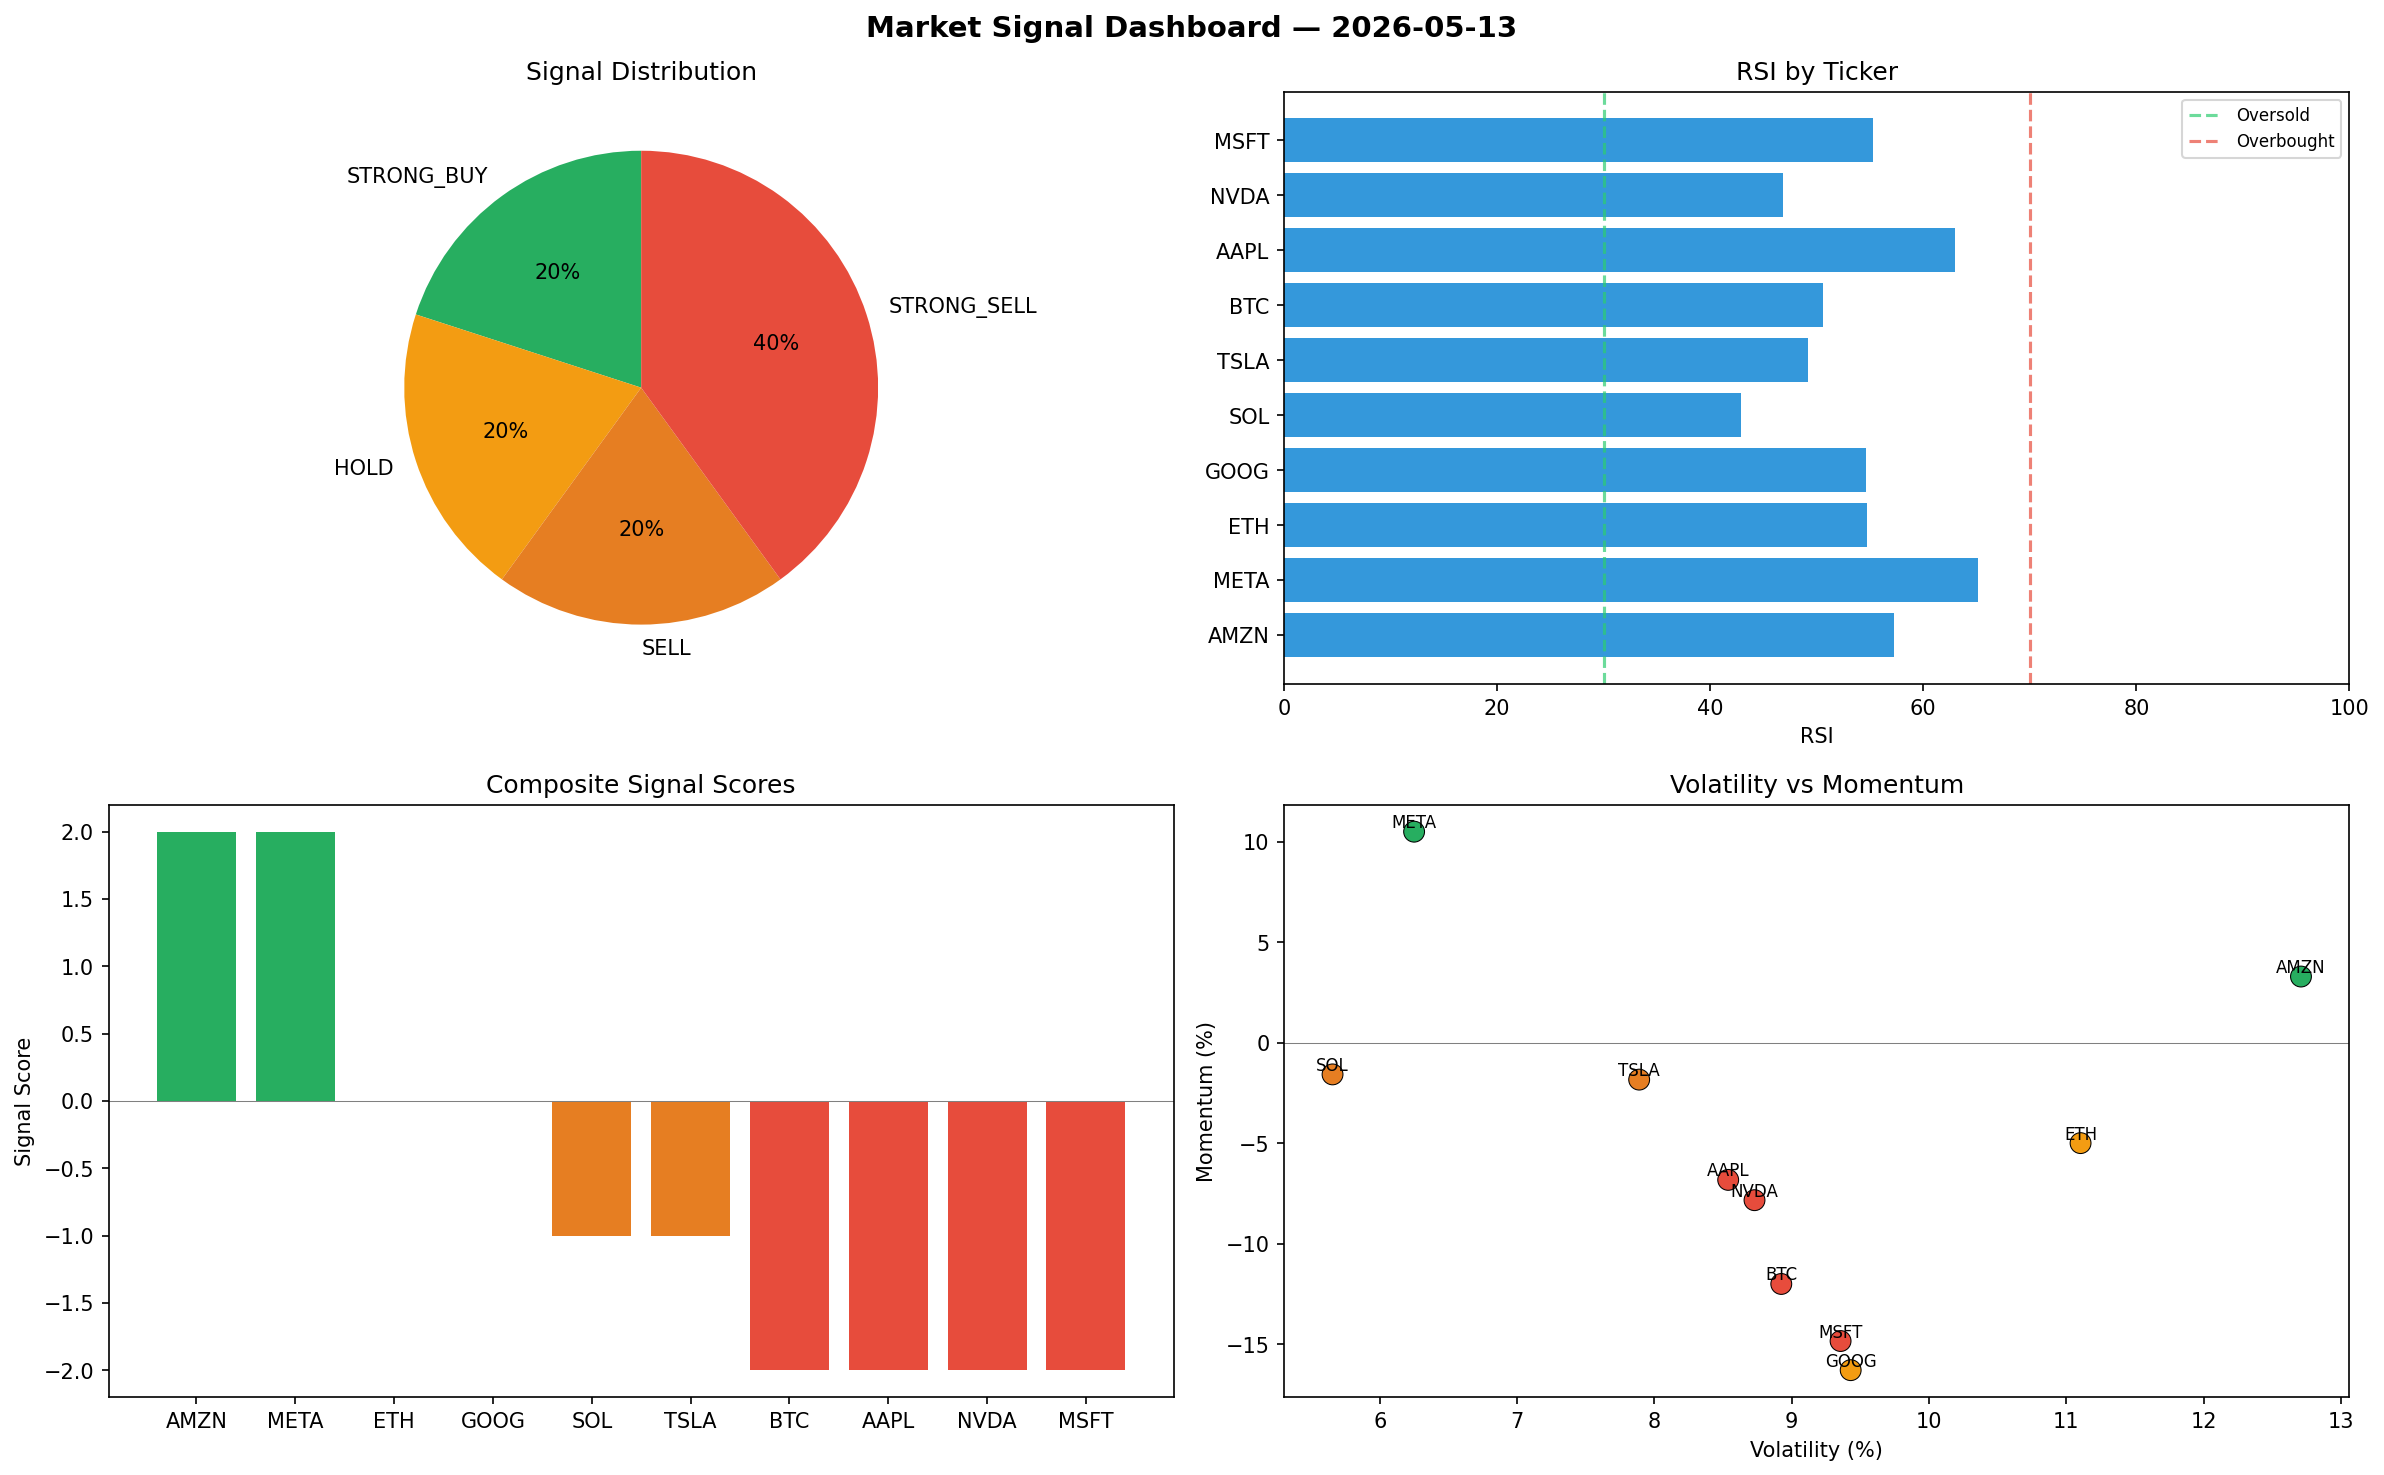
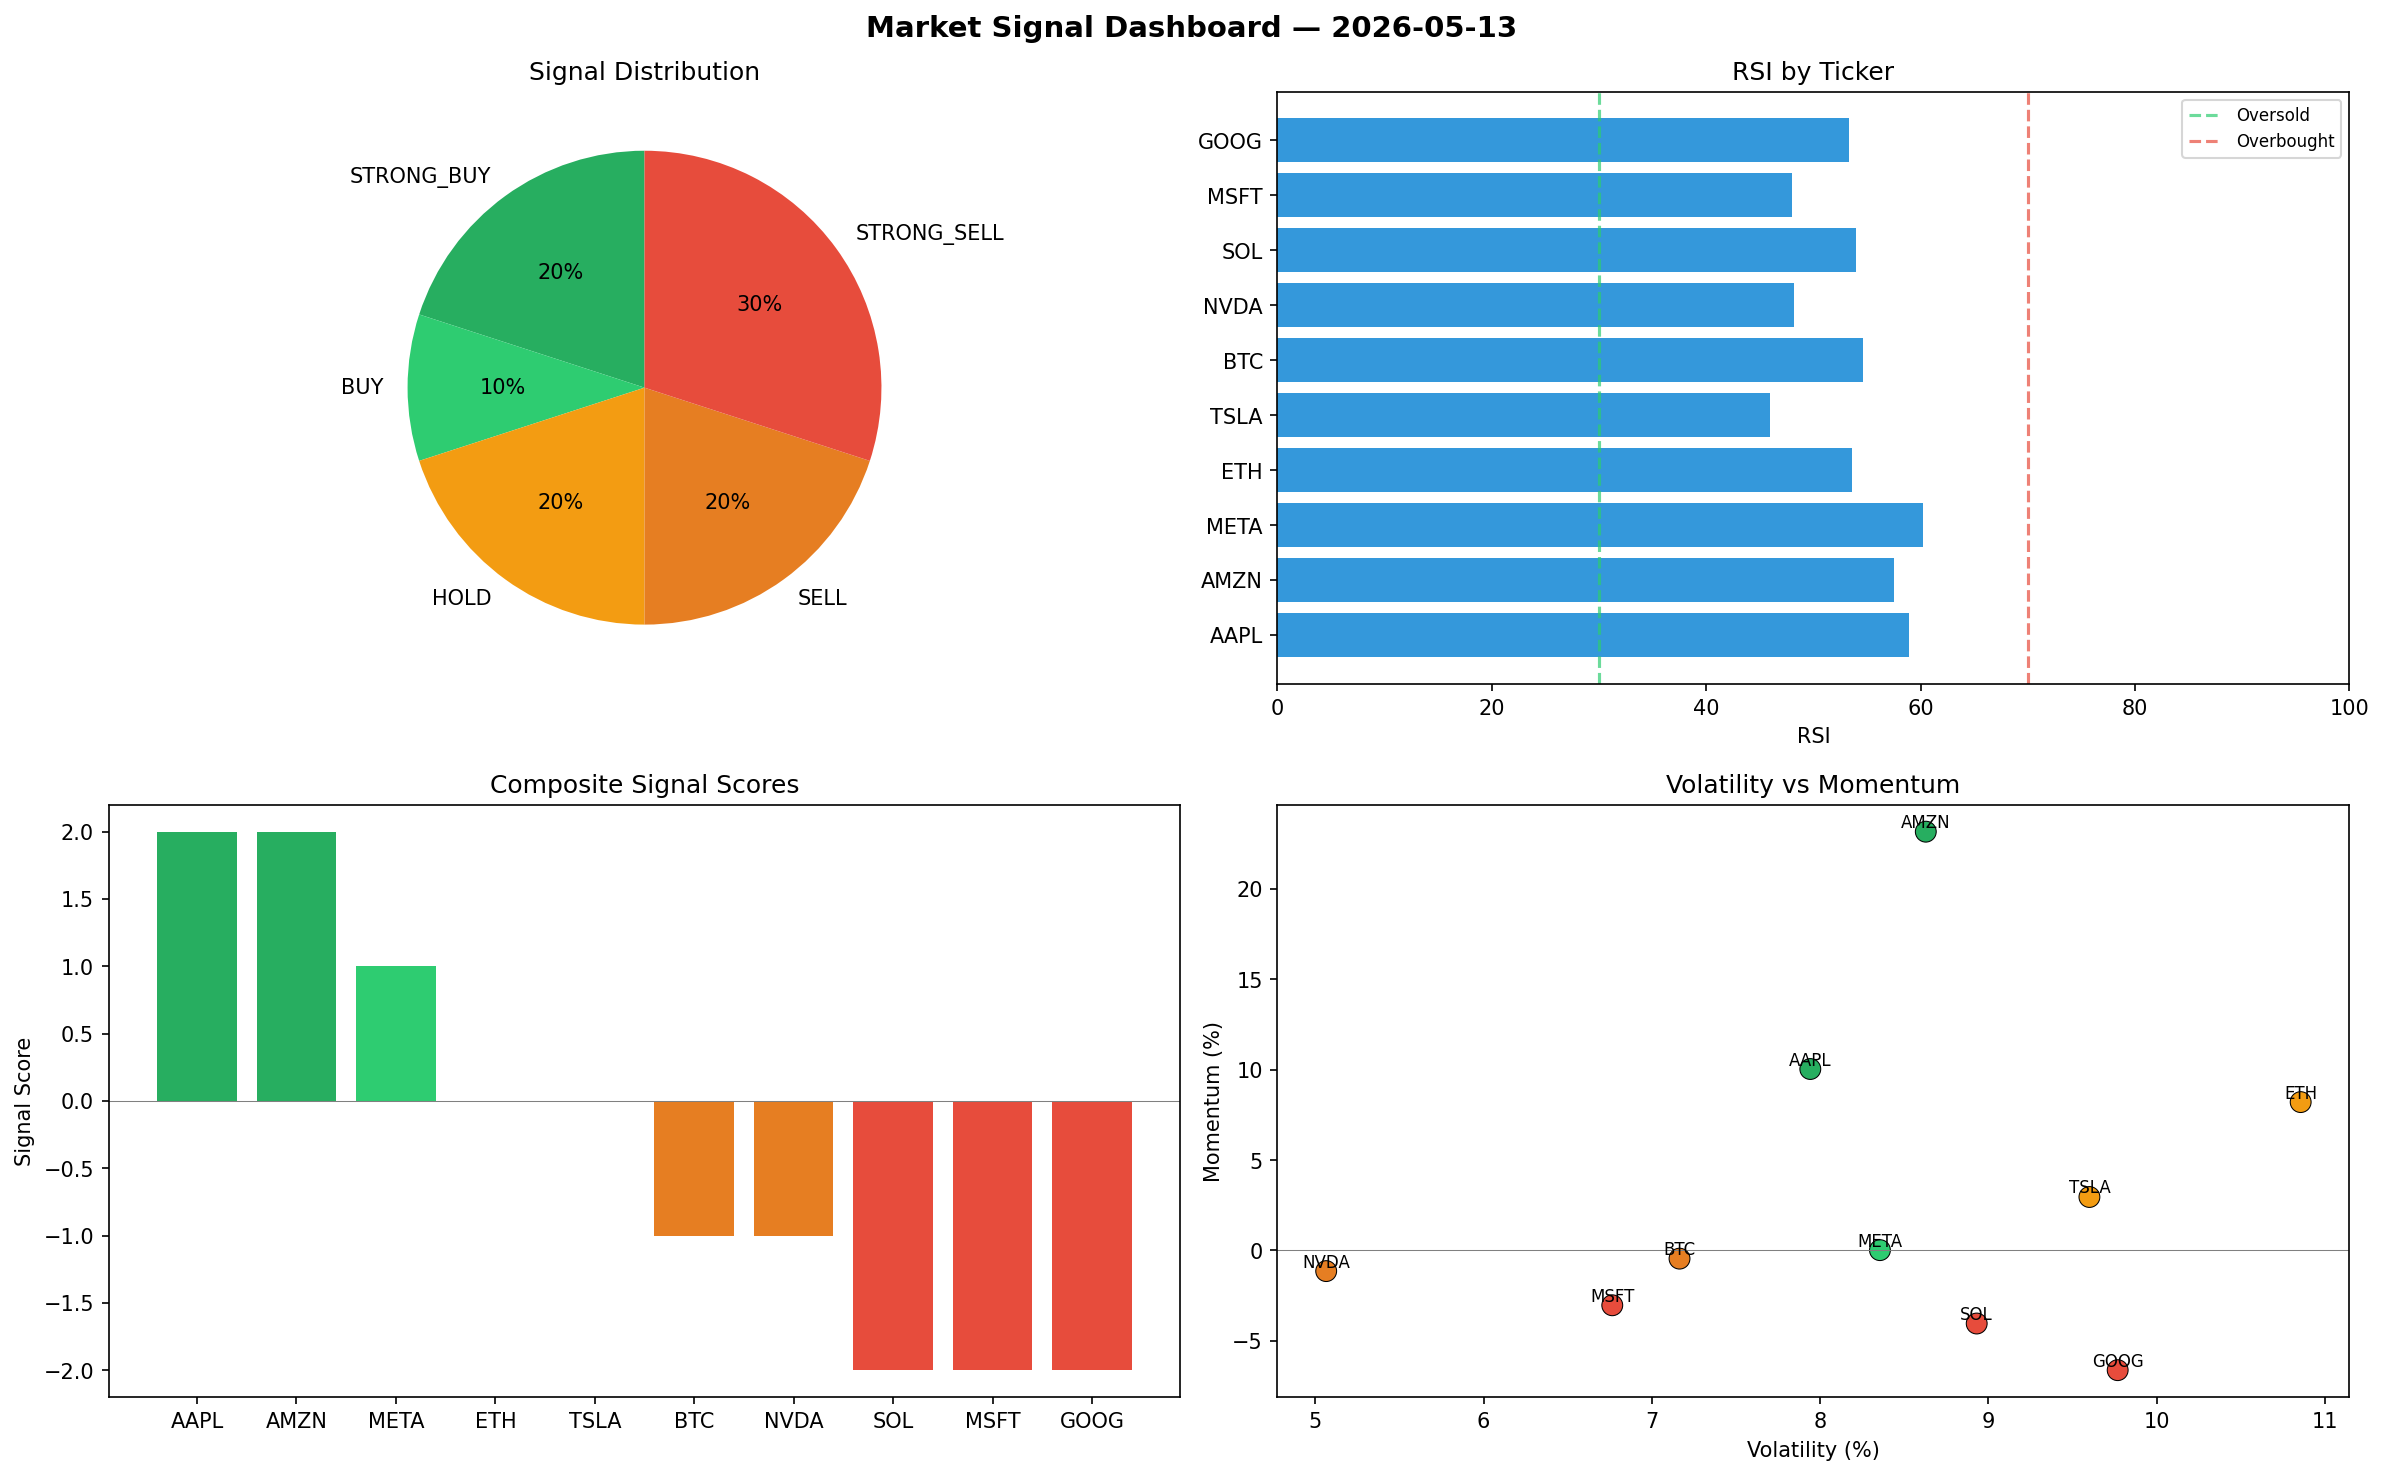
automated-bots: market signals 2026-05-13T11:03

diff --git a/logs/2026-05-13.md b/logs/2026-05-13.md
@@ -1,6 +1,6 @@
 # Market Signal Report — 2026-05-13
 
-**Run ID:** `304f258e89` | **Buy:** 2 | **Sell:** 6 | **Hold:** 2
+**Run ID:** `d3b34e11c4` | **Buy:** 3 | **Sell:** 5 | **Hold:** 2
 
 ![Dashboard](2026-05-13_dashboard.png)
 
@@ -8,28 +8,28 @@
 
 | Ticker | Price | Signal | Score | RSI | Momentum | Confidence |
 |--------|-------|--------|-------|-----|----------|------------|
-| AMZN | $3185.38 | **STRONG_BUY** | 2 | 57.26 | 0.033 | 0.5 |
-| META | $1786.54 | **STRONG_BUY** | 2 | 65.12 | 0.1051 | 0.5 |
-| ETH | $2337.55 | **HOLD** | 0 | 54.68 | -0.0499 | 0.0 |
-| GOOG | $347.57 | **HOLD** | 0 | 54.58 | -0.1629 | 0.0 |
-| SOL | $1341.54 | **SELL** | -1 | 42.86 | -0.0157 | 0.25 |
-| TSLA | $3585.32 | **SELL** | -1 | 49.19 | -0.0183 | 0.25 |
-| BTC | $2037.74 | **STRONG_SELL** | -2 | 50.6 | -0.12 | 0.5 |
-| AAPL | $1042.52 | **STRONG_SELL** | -2 | 63.01 | -0.0682 | 0.5 |
-| NVDA | $3230.78 | **STRONG_SELL** | -2 | 46.86 | -0.0783 | 0.5 |
-| MSFT | $2727.76 | **STRONG_SELL** | -2 | 55.27 | -0.1484 | 0.5 |
+| AAPL | $1733.51 | **STRONG_BUY** | 2 | 58.93 | 0.1004 | 0.5 |
+| AMZN | $3645.87 | **STRONG_BUY** | 2 | 57.52 | 0.2317 | 0.5 |
+| META | $4276.86 | **BUY** | 1 | 60.25 | 0.0002 | 0.25 |
+| ETH | $1096.27 | **HOLD** | 0 | 53.63 | 0.0821 | 0.0 |
+| TSLA | $652.42 | **HOLD** | 0 | 45.94 | 0.0296 | 0.0 |
+| BTC | $3459.41 | **SELL** | -1 | 54.59 | -0.0045 | 0.25 |
+| NVDA | $3005.61 | **SELL** | -1 | 48.18 | -0.0114 | 0.25 |
+| SOL | $3804.04 | **STRONG_SELL** | -2 | 53.96 | -0.0404 | 0.5 |
+| MSFT | $385.42 | **STRONG_SELL** | -2 | 47.99 | -0.0303 | 0.5 |
+| GOOG | $84.67 | **STRONG_SELL** | -2 | 53.36 | -0.0662 | 0.5 |
 
 ## Delta vs Yesterday
 
 | Ticker | Today | Yesterday | Price Change | Signal Changed |
 |--------|-------|-----------|-------------|----------------|
-| AMZN | STRONG_BUY | HOLD | 📈 75.93% | ⚠ YES |
-| META | STRONG_BUY | STRONG_BUY | 📈 118.09% | — |
-| ETH | HOLD | HOLD | 📈 584.6% | — |
-| GOOG | HOLD | STRONG_SELL | 📉 -83.26% | ⚠ YES |
-| SOL | SELL | SELL | 📈 24.82% | — |
-| TSLA | SELL | HOLD | 📉 -25.56% | ⚠ YES |
-| BTC | STRONG_SELL | HOLD | 📈 99.51% | ⚠ YES |
-| AAPL | STRONG_SELL | BUY | 📉 -69.05% | ⚠ YES |
-| NVDA | STRONG_SELL | STRONG_SELL | 📉 -12.73% | — |
-| MSFT | STRONG_SELL | STRONG_BUY | 📉 0.0% | ⚠ YES |
+| AAPL | STRONG_BUY | BUY | 📉 -48.53% | ⚠ YES |
+| AMZN | STRONG_BUY | HOLD | 📈 101.36% | ⚠ YES |
+| META | BUY | STRONG_BUY | 📈 422.1% | ⚠ YES |
+| ETH | HOLD | HOLD | 📈 221.06% | — |
+| TSLA | HOLD | HOLD | 📉 -86.45% | — |
+| BTC | SELL | HOLD | 📈 238.7% | ⚠ YES |
+| NVDA | SELL | STRONG_SELL | 📉 -18.81% | ⚠ YES |
+| SOL | STRONG_SELL | SELL | 📈 253.94% | ⚠ YES |
+| MSFT | STRONG_SELL | STRONG_BUY | 📉 -85.87% | ⚠ YES |
+| GOOG | STRONG_SELL | STRONG_SELL | 📉 -95.92% | — |
